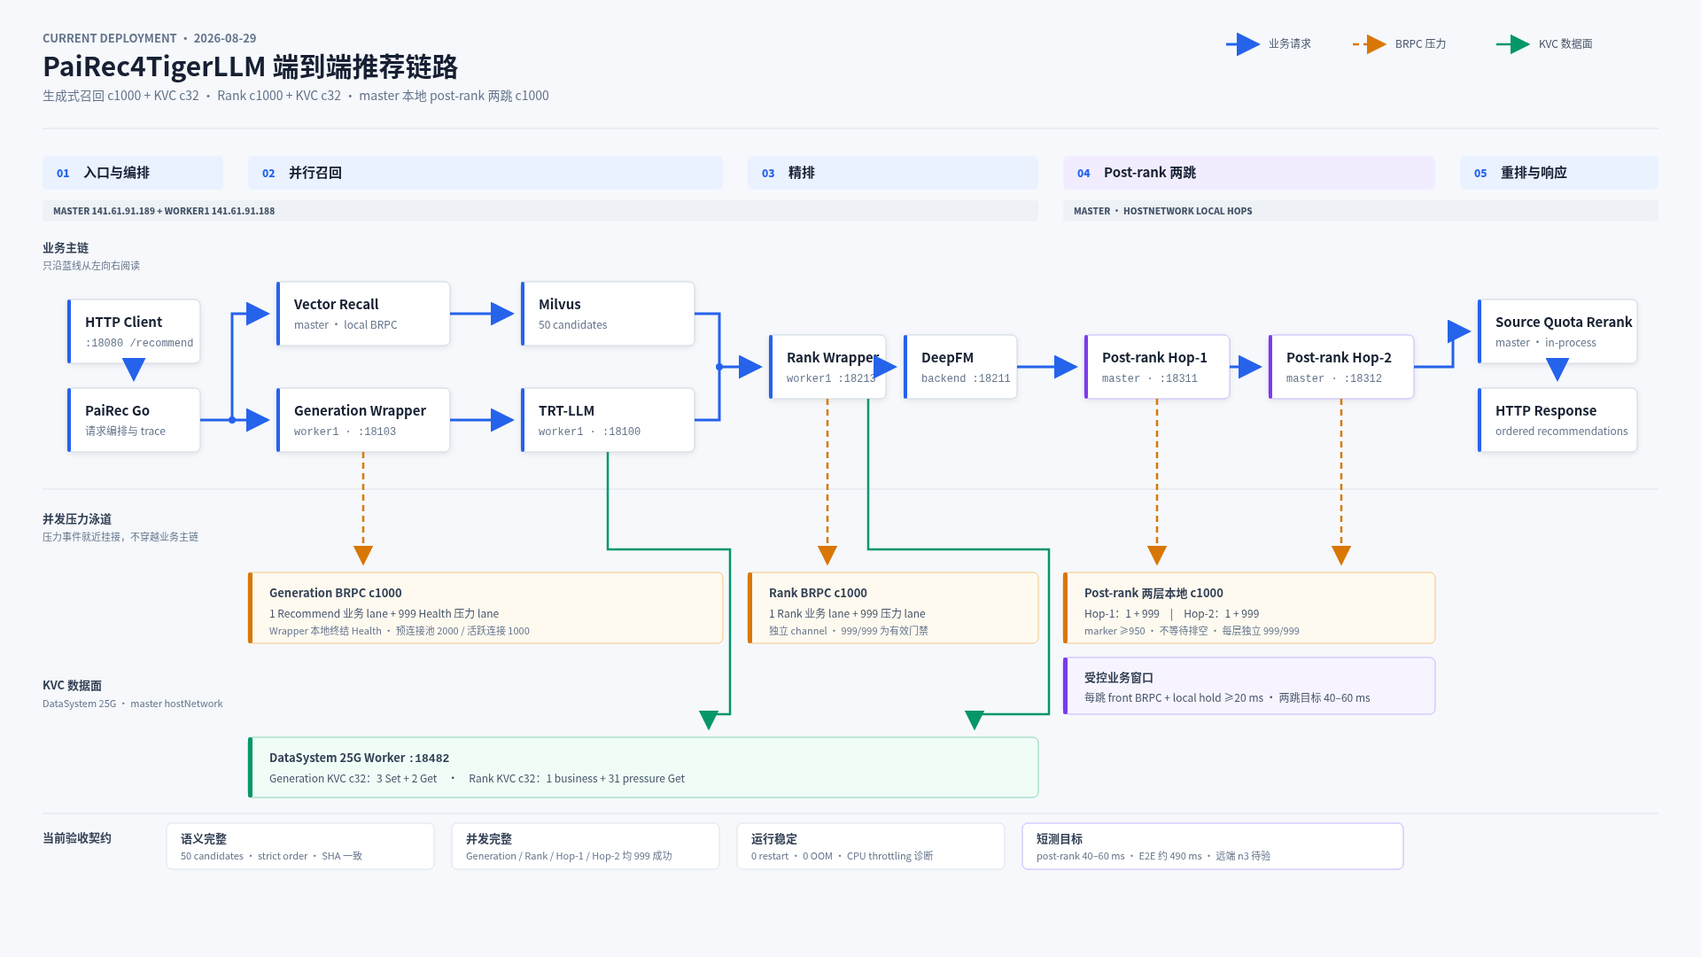
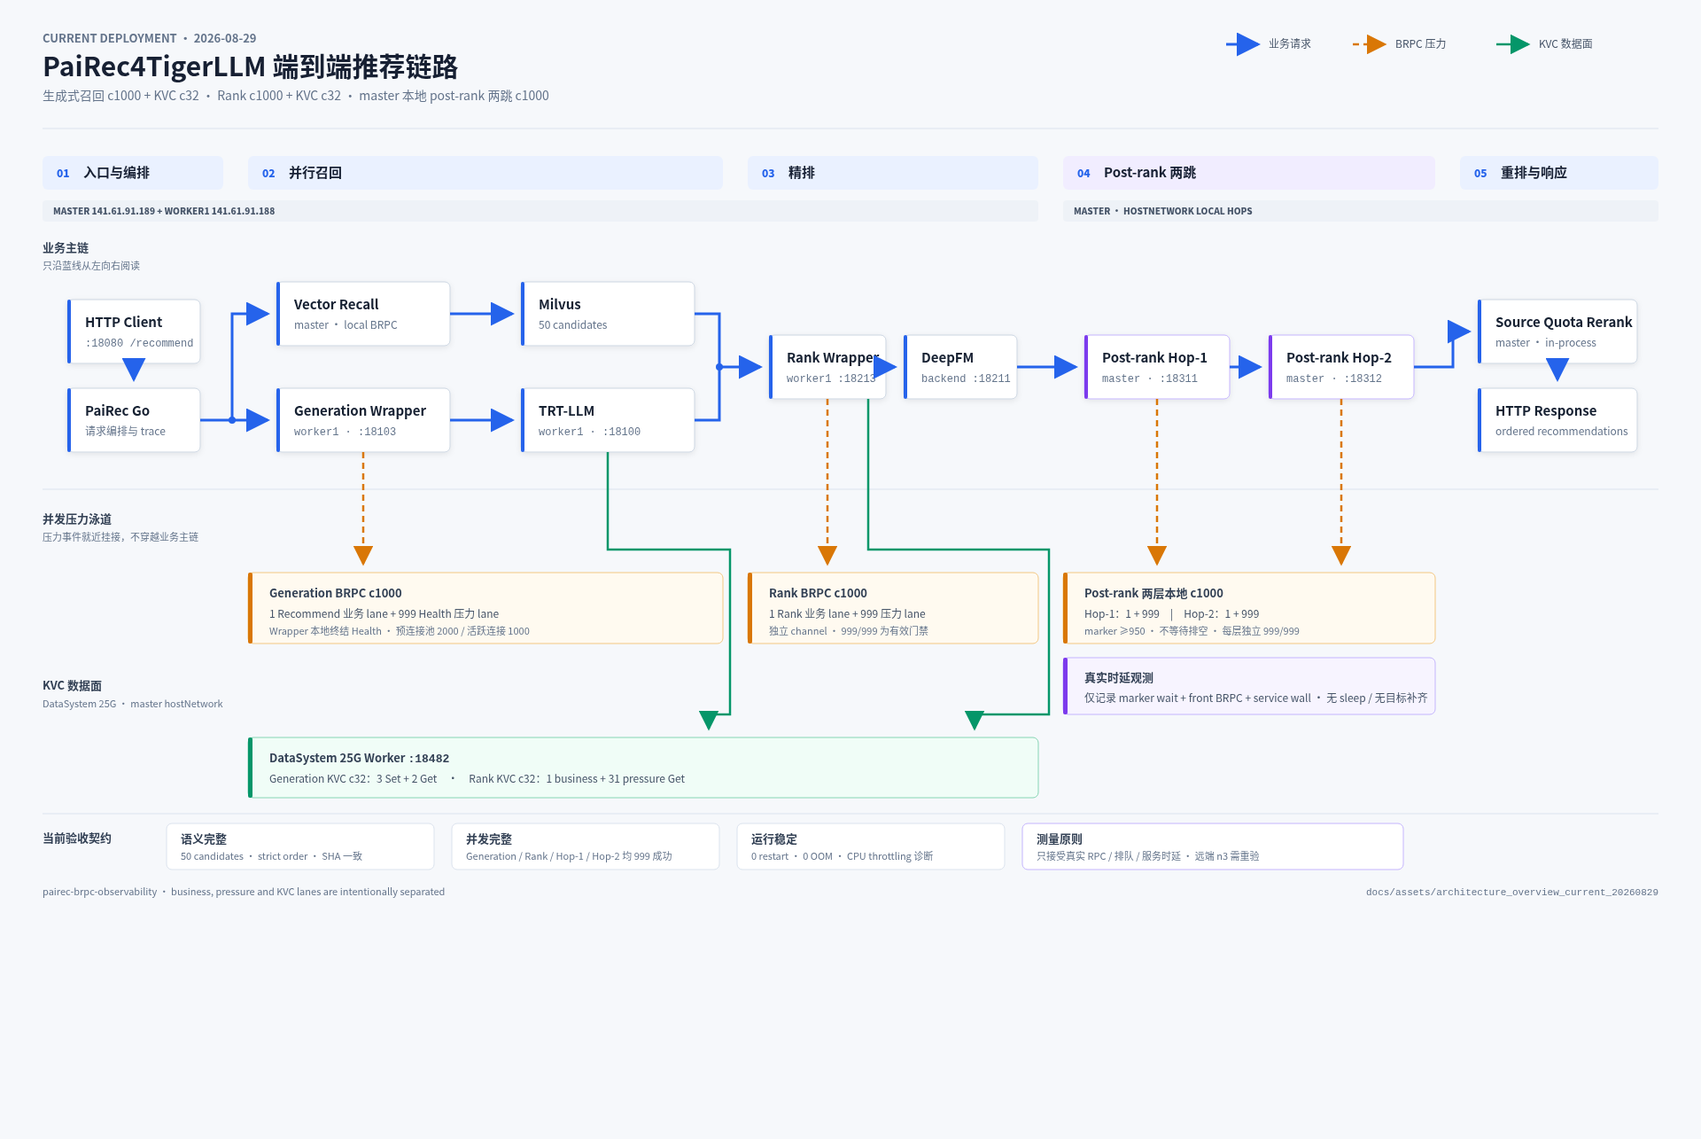
fix: remove synthetic post-rank latency padding

diff --git a/docs/assets/architecture_overview_current_20260829.html b/docs/assets/architecture_overview_current_20260829.html
@@ -147,7 +147,7 @@
     <text x="1224" y="674" class="lane-title">Post-rank 两层本地 c1000</text><text x="1224" y="697" class="lane-text">Hop-1：1 + 999　|　Hop-2：1 + 999</text><text x="1224" y="716" class="tiny">marker ≥950 · 不等待排空 · 每层独立 999/999</text></g>
 
   <g><rect x="1200" y="742" width="420" height="64" rx="6" fill="#f7f4ff" stroke="#c4b5fd"/><rect x="1200" y="742" width="5" height="64" rx="2" fill="#7c3aed"/>
-    <text x="1224" y="769" class="lane-title" fill="#5b21b6">受控业务窗口</text><text x="1224" y="792" class="lane-text">每跳 front BRPC + local hold ≥20 ms · 两跳目标 40–60 ms</text></g>
+    <text x="1224" y="769" class="lane-title" fill="#5b21b6">真实时延观测</text><text x="1224" y="792" class="lane-text">仅记录 marker wait + front BRPC + service wall · 无 sleep / 无目标补齐</text></g>
 
   <!-- KVC -->
   <text x="48" y="778" class="lane-title">KVC 数据面</text>
@@ -164,7 +164,7 @@
     <rect x="0" y="0" width="302" height="52" rx="6" fill="#fff" stroke="#dbe3ee"/><text x="16" y="22" class="lane-title">语义完整</text><text x="16" y="41" class="tiny">50 candidates · strict order · SHA 一致</text>
     <rect x="322" y="0" width="302" height="52" rx="6" fill="#fff" stroke="#dbe3ee"/><text x="338" y="22" class="lane-title">并发完整</text><text x="338" y="41" class="tiny">Generation / Rank / Hop-1 / Hop-2 均 999 成功</text>
     <rect x="644" y="0" width="302" height="52" rx="6" fill="#fff" stroke="#dbe3ee"/><text x="660" y="22" class="lane-title">运行稳定</text><text x="660" y="41" class="tiny">0 restart · 0 OOM · CPU throttling 诊断</text>
-    <rect x="966" y="0" width="430" height="52" rx="6" fill="#fff" stroke="#c4b5fd"/><text x="982" y="22" class="lane-title" fill="#5b21b6">短测目标</text><text x="982" y="41" class="tiny">post-rank 40–60 ms · E2E 约 490 ms · 远端 n3 待验</text>
+    <rect x="966" y="0" width="430" height="52" rx="6" fill="#fff" stroke="#c4b5fd"/><text x="982" y="22" class="lane-title" fill="#5b21b6">测量原则</text><text x="982" y="41" class="tiny">只接受真实 RPC / 排队 / 服务时延 · 远端 n3 需重验</text>
   </g>
   <text x="48" y="1010" class="tiny">pairec-brpc-observability · business, pressure and KVC lanes are intentionally separated</text>
   <text x="1872" y="1010" text-anchor="end" class="tiny mono">docs/assets/architecture_overview_current_20260829</text>

diff --git a/services/sort/brpc_rank_burst_coordinator.go b/services/sort/brpc_rank_burst_coordinator.go
@@ -25,7 +25,6 @@ type RankBurstConfig struct {
 	DedicatedBusinessLane bool
 	PressureStartQuorum   int
 	PressureStartTimeout  time.Duration
-	MinimumLocalWindow    time.Duration
 }
 
 type rankBurstSession interface {
@@ -53,7 +52,6 @@ type RankBurstCoordinator struct {
 	dedicatedBusinessLane bool
 	pressureStartQuorum   int
 	pressureStartTimeout  time.Duration
-	minimumLocalWindow    time.Duration
 	pressureDispatch      sync.Mutex
 	rounds                sync.WaitGroup
 }
@@ -84,10 +82,8 @@ type rankBurstLaneResult struct {
 	response                       *pipelinepb.RankResponse
 	err                            error
 	markerWaitUS                   int64
-	businessHoldUS                 int64
 	pressureStartedAtBusinessStart int64
 	pressureStartQuorum            int
-	minimumLocalWindowUS           int64
 }
 
 type rankBurstBusinessEvent struct {
@@ -107,9 +103,6 @@ type rankBurstBusinessEvent struct {
 	PressureStartQuorum            int     `json:"pressure_start_quorum"`
 	PressureStartedAtBusinessStart int64   `json:"pressure_started_at_business_start"`
 	MarkerWaitMS                   float64 `json:"marker_wait_ms"`
-	BusinessHoldMS                 float64 `json:"business_hold_ms"`
-	MinimumLocalWindowMS           float64 `json:"minimum_local_window_ms"`
-	LocalBusinessWindowMS          float64 `json:"local_business_window_ms"`
 }
 
 type rankBurstCompleteEvent struct {
@@ -197,9 +190,6 @@ func newRankBurstCoordinator(sessions []rankBurstSession, cfg RankBurstConfig, l
 			return nil, fmt.Errorf("rank pressure start timeout must be positive")
 		}
 	}
-	if cfg.MinimumLocalWindow < 0 || cfg.MinimumLocalWindow > cfg.BusinessTimeout {
-		return nil, fmt.Errorf("rank minimum local window must be in [0,business timeout]")
-	}
 	if logger == nil {
 		logger = writeRankBurstEvent
 	}
@@ -218,7 +208,6 @@ func newRankBurstCoordinator(sessions []rankBurstSession, cfg RankBurstConfig, l
 		dedicatedBusinessLane: cfg.DedicatedBusinessLane,
 		pressureStartQuorum:   cfg.PressureStartQuorum,
 		pressureStartTimeout:  cfg.PressureStartTimeout,
-		minimumLocalWindow:    cfg.MinimumLocalWindow,
 	}
 	c.workers = make([]chan rankBurstJob, cfg.PoolSize)
 	for index := range sessions {
@@ -335,23 +324,8 @@ func (c *RankBurstCoordinator) Rank(request *pipelinepb.RankRequest, requestID s
 	business.markerWaitUS = markerWait.Microseconds()
 	business.pressureStartedAtBusinessStart = pressureStartedAtBusinessStart
 	business.pressureStartQuorum = c.pressureStartQuorum
-	business.minimumLocalWindowUS = c.minimumLocalWindow.Microseconds()
 	if markerErr != nil {
 		business.err = markerErr
-	}
-	if business.err == nil && business.response != nil && c.minimumLocalWindow > 0 {
-		serviceUS := int64(0)
-		if business.response.Trace != nil {
-			serviceUS = pipelinepb.Int64(business.response.Trace.TotalUS)
-		}
-		localFront := time.Duration(maxInt64(0, business.latencyUS-serviceUS)) * time.Microsecond
-		if hold := c.minimumLocalWindow - localFront; hold > 0 {
-			holdStarted := time.Now()
-			time.Sleep(hold)
-			business.businessHoldUS = time.Since(holdStarted).Microseconds()
-			business.endEpochNS = time.Now().UnixNano()
-			business.latencyUS = (business.endEpochNS - business.startEpochNS) / 1000
-		}
 	}
 	businessEvent := makeRankBurstBusinessEvent(
 		c.eventPrefix, c.traceComponent, requestID, c.concurrency,
@@ -478,8 +452,6 @@ func makeRankBurstBusinessEvent(eventPrefix, traceComponent, requestID string,
 		PressureStartQuorum:            result.pressureStartQuorum,
 		PressureStartedAtBusinessStart: result.pressureStartedAtBusinessStart,
 		MarkerWaitMS:                   float64(result.markerWaitUS) / 1000,
-		BusinessHoldMS:                 float64(result.businessHoldUS) / 1000,
-		MinimumLocalWindowMS:           float64(result.minimumLocalWindowUS) / 1000,
 	}
 	if result.err != nil {
 		event.Error = result.err.Error()
@@ -488,22 +460,14 @@ func makeRankBurstBusinessEvent(eventPrefix, traceComponent, requestID string,
 		return event
 	}
 	event.ServiceTotalMS = float64(pipelinepb.Int64(result.response.Trace.TotalUS)) / 1000
-	event.FrontBRPCEstimateMS = event.ClientWallMS - event.ServiceTotalMS - event.BusinessHoldMS
+	event.FrontBRPCEstimateMS = event.ClientWallMS - event.ServiceTotalMS
 	if event.FrontBRPCEstimateMS < 0 {
 		event.FrontBRPCEstimateMS = 0
 	}
-	event.LocalBusinessWindowMS = event.FrontBRPCEstimateMS + event.BusinessHoldMS
 	event.TraceValid = pipelinepb.Int32(result.response.Code) == 200 &&
 		pipelinepb.String(result.response.Trace.Component) == traceComponent &&
 		pipelinepb.Int64(result.response.Trace.TotalUS) > 0
 	return event
-}
-
-func maxInt64(left, right int64) int64 {
-	if left > right {
-		return left
-	}
-	return right
 }
 
 func makeRankBurstCompleteEvent(eventPrefix, requestID string,

diff --git a/cpp/brpc_gateway/post_rank_hop_burst.cpp b/cpp/brpc_gateway/post_rank_hop_burst.cpp
@@ -77,7 +77,6 @@ class BurstCoordinator::Impl {
     pairec::pipeline::RankResponse business_response;
     std::string business_error;
     double marker_wait_ms = 0;
-    double business_hold_ms = 0;
     std::vector<int64_t> pressure_us;
   };
 
@@ -100,10 +99,8 @@ class BurstCoordinator::Impl {
         config.startup_batch_size > config.concurrency ||
         config.pressure_start_quorum < 1 ||
         config.pressure_start_quorum >= config.concurrency ||
-        config.pressure_start_timeout_ms < 1 ||
-        config.minimum_local_window_ms < 1 ||
-        config.minimum_local_window_ms > 100) {
-      *error = "post-rank hop requires c1000, payload=102400, marker quorum, and a 1..100ms local window";
+        config.pressure_start_timeout_ms < 1) {
+      *error = "post-rank hop requires c1000, payload=102400, and a pressure marker quorum";
       return false;
     }
     config_ = config;
@@ -149,7 +146,6 @@ class BurstCoordinator::Impl {
               << ",\"armed_workers\":" << config.concurrency
               << ",\"pressure_start_quorum\":" << config.pressure_start_quorum
               << ",\"pressure_start_timeout_ms\":" << config.pressure_start_timeout_ms
-              << ",\"minimum_local_window_ms\":" << config.minimum_local_window_ms
               << ",\"payload_bytes\":" << config.payload_bytes << "}" << std::endl;
     return true;
   }
@@ -226,22 +222,12 @@ class BurstCoordinator::Impl {
     }
     const double raw_wall_ms = static_cast<double>(rpc_ended_ns - business_started_ns) / 1e6;
     const double front_brpc_ms = std::max(0.0, raw_wall_ms - service_ms);
-    const double requested_hold_ms = marker_success
-        ? std::max(0.0, static_cast<double>(config_.minimum_local_window_ms) - front_brpc_ms)
-        : 0;
-    if (requested_hold_ms > 0) {
-      const int64_t hold_started_us = SteadyMicros();
-      std::this_thread::sleep_for(std::chrono::microseconds(
-          static_cast<int64_t>(requested_hold_ms * 1000)));
-      result->business_hold_ms = static_cast<double>(SteadyMicros() - hold_started_us) / 1000;
-    }
-    const int64_t business_ended_ns = SystemNanos();
+    const int64_t business_ended_ns = rpc_ended_ns;
     bool finish = false;
     {
       std::lock_guard<std::mutex> lock(round->mutex);
       round->business_end_ns = business_ended_ns;
       round->business_response = business_response;
-      round->business_hold_ms = result->business_hold_ms;
       round->business_success = marker_success && !controller.Failed() && business_response.code() == 200;
       if (!marker_success) {
         round->business_error = "pressure start marker timed out: started=" +
@@ -258,7 +244,6 @@ class BurstCoordinator::Impl {
       result->business_wall_ms = static_cast<double>(business_ended_ns - business_started_ns) / 1e6;
       result->service_ms = service_ms;
       result->front_brpc_ms = front_brpc_ms;
-      result->local_business_window_ms = front_brpc_ms + result->business_hold_ms;
       result->error = round->business_error;
       *response = round->business_response;
     }
@@ -274,9 +259,6 @@ class BurstCoordinator::Impl {
               << ",\"pressure_started_at_business_start\":"
               << result->pressure_started_at_business_start
               << ",\"marker_wait_ms\":" << result->marker_wait_ms
-              << ",\"business_hold_ms\":" << result->business_hold_ms
-              << ",\"minimum_local_window_ms\":" << config_.minimum_local_window_ms
-              << ",\"local_business_window_ms\":" << result->local_business_window_ms
               << "}" << std::endl;
     return result->success;
   }

diff --git a/tests/test_rank_brpc_burst_summary.py b/tests/test_rank_brpc_burst_summary.py
@@ -226,7 +226,7 @@ class RankBRPCBurstSummaryTest(unittest.TestCase):
         self.assertIn("pairec_post_rank_binary_identity", script)
         self.assertNotIn("rollout restart deployment/post-rank-hop", script)
 
-    def test_post_rank_business_lanes_wait_for_marker_not_pressure_drain(self):
+    def test_post_rank_business_lanes_measure_real_latency_without_padding(self):
         outer = (ROOT / "services" / "sort" / "deepfm_rank_sort.go").read_text()
         coordinator = (
             ROOT / "services" / "sort" / "brpc_rank_burst_coordinator.go"
@@ -234,15 +234,18 @@ class RankBRPCBurstSummaryTest(unittest.TestCase):
         inner = (ROOT / "cpp" / "brpc_gateway" / "post_rank_hop_burst.cpp").read_text()
         self.assertIn("DedicatedBusinessLane: true", outer)
         self.assertIn("PressureStartQuorum:", outer)
-        self.assertIn("MinimumLocalWindow:", outer)
         self.assertIn("businessLane = 1", coordinator)
         self.assertIn("pressure start marker timed out", coordinator)
-        self.assertIn("LocalBusinessWindowMS", coordinator)
         self.assertIn("c.slot <- struct{}{}", coordinator)
         self.assertIn("std::deque<std::shared_ptr<Round>> rounds", inner)
         self.assertIn("business_mutex_", inner)
         self.assertIn("pressure_started_cv.wait_for", inner)
-        self.assertIn("minimum_local_window_ms", inner)
+        self.assertNotIn("MinimumLocalWindow", outer)
+        self.assertNotIn("time.Sleep(hold)", coordinator)
+        self.assertNotIn("business_hold_ms", coordinator)
+        self.assertNotIn("minimum_local_window_ms", inner)
+        self.assertNotIn("requested_hold_ms", inner)
+        self.assertNotIn("sleep_for(std::chrono::microseconds", inner)
         self.assertNotIn("round->ready == config_.concurrency - 1", inner)
         self.assertNotIn("previous post-rank hop2 burst is still active", inner)
 
@@ -257,8 +260,10 @@ class RankBRPCBurstSummaryTest(unittest.TestCase):
         self.assertIn('MAX_POST_RANK_MS="${MAX_POST_RANK_MS:-120}"', benchmark)
         self.assertIn('MEASURED_REQUESTS="${MEASURED_REQUESTS:-3}"', benchmark)
         self.assertIn('"PAIREC_POST_RANK_TWO_HOP_B_N3_OK"', benchmark)
-        self.assertIn('post_rank_hop1_local_business_window_ms', benchmark)
-        self.assertIn('post_rank_hop2_local_business_window_ms', benchmark)
+        self.assertIn('post_rank_hop1_front_brpc_ms', benchmark)
+        self.assertIn('post_rank_hop2_front_brpc_ms', benchmark)
+        self.assertNotIn('local_business_window_ms', benchmark)
+        self.assertNotIn('business_hold_ms', benchmark)
         self.assertIn('outer_complete["burst_valid"] is True', benchmark)
         self.assertIn("cpu_throttling=diagnostic", validator)
         self.assertNotIn('after["nr_throttled"]-before["nr_throttled"]==0', validator)

diff --git a/services/sort/brpc_rank_burst_coordinator_test.go b/services/sort/brpc_rank_burst_coordinator_test.go
@@ -89,7 +89,7 @@ func TestRankBurstCoordinatorDedicatedLaneDoesNotWaitForPreviousPressureTail(t *
 	}
 }
 
-func TestRankBurstCoordinatorWaitsForPressureMarkerAndAddsLocalWindow(t *testing.T) {
+func TestRankBurstCoordinatorWaitsForPressureMarkerWithoutSyntheticDelay(t *testing.T) {
 	const concurrency = 4
 	sessions := make([]rankBurstSession, concurrency)
 	for index := range sessions {
@@ -107,7 +107,6 @@ func TestRankBurstCoordinatorWaitsForPressureMarkerAndAddsLocalWindow(t *testing
 			BusinessTimeout: time.Second, PressureTimeout: time.Second,
 			DedicatedBusinessLane: true, PressureStartQuorum: concurrency - 1,
 			PressureStartTimeout: 100 * time.Millisecond,
-			MinimumLocalWindow:   20 * time.Millisecond,
 		},
 		func(event any) { events <- event },
 	)
@@ -119,16 +118,16 @@ func TestRankBurstCoordinatorWaitsForPressureMarkerAndAddsLocalWindow(t *testing
 	if _, err := coordinator.Rank(testRankBurstRequest(), "marker-window"); err != nil {
 		t.Fatal(err)
 	}
-	if elapsed := time.Since(started); elapsed < 19*time.Millisecond || elapsed >= 60*time.Millisecond {
-		t.Fatalf("unexpected marker/window business latency: %s", elapsed)
+	if elapsed := time.Since(started); elapsed >= 50*time.Millisecond {
+		t.Fatalf("business request included synthetic delay or pressure tail: %s", elapsed)
 	}
 	business := waitRankBurstBusiness(t, events)
 	if business.PressureStartQuorum != concurrency-1 ||
 		business.PressureStartedAtBusinessStart < concurrency-1 {
 		t.Fatalf("business did not wait for pressure marker: %#v", business)
 	}
-	if business.LocalBusinessWindowMS < 19.5 || business.BusinessHoldMS < 10 {
-		t.Fatalf("local business window was not enforced: %#v", business)
+	if business.FrontBRPCEstimateMS <= 0 {
+		t.Fatalf("real front BRPC latency was not observed: %#v", business)
 	}
 	complete := waitRankBurstComplete(t, events)
 	if !complete.BurstValid || complete.PressureSuccess != concurrency-1 {
@@ -193,6 +192,7 @@ func TestRankBurstCoordinatorReturnsBusinessBeforePressureTail(t *testing.T) {
 			Concurrency: concurrency, PoolSize: concurrency,
 			BusinessBytes: 102400, PressureBytes: 102400,
 			BusinessTimeout: time.Second, PressureTimeout: time.Second,
+			DedicatedBusinessLane: true,
 		},
 		func(event any) { events <- event },
 	)
@@ -209,7 +209,7 @@ func TestRankBurstCoordinatorReturnsBusinessBeforePressureTail(t *testing.T) {
 	}
 	complete := waitRankBurstComplete(t, events)
 	if !complete.BurstValid || complete.PressureRequests != concurrency-1 ||
-		complete.PressureSuccess != concurrency-1 || complete.PressureOverlapBusiness <= 0 {
+		complete.PressureSuccess != concurrency-1 {
 		t.Fatalf("unexpected pressure completion: %#v", complete)
 	}
 	if complete.PressureTailAfterBusinessMS < 50 {

diff --git a/services/sort/deepfm_rank_sort.go b/services/sort/deepfm_rank_sort.go
@@ -56,7 +56,6 @@ type Config struct {
 	PostRankPressureTimeoutMS      int    `json:"post_rank_pressure_timeout_ms"`
 	PostRankPressureStartQuorum    int    `json:"post_rank_pressure_start_quorum"`
 	PostRankPressureStartTimeoutMS int    `json:"post_rank_pressure_start_timeout_ms"`
-	PostRankMinimumLocalWindowMS   int    `json:"post_rank_minimum_local_window_ms"`
 }
 
 type userDefineConfig struct {
@@ -193,9 +192,6 @@ func NewDeepFMRankSort(config Config) (*DeepFMRankSort, error) {
 		if config.PostRankPressureStartTimeoutMS < 1 || config.PostRankPressureStartTimeoutMS > 1000 {
 			return nil, errors.New("post-rank pressure start timeout must be in [1,1000] ms")
 		}
-		if config.PostRankMinimumLocalWindowMS < 1 || config.PostRankMinimumLocalWindowMS > 100 {
-			return nil, errors.New("post-rank minimum local window must be in [1,100] ms")
-		}
 	}
 	transport := &http.Transport{
 		Proxy: nil,
@@ -261,7 +257,6 @@ func NewDeepFMRankSort(config Config) (*DeepFMRankSort, error) {
 				DedicatedBusinessLane: true,
 				PressureStartQuorum:   config.PostRankPressureStartQuorum,
 				PressureStartTimeout:  time.Duration(config.PostRankPressureStartTimeoutMS) * time.Millisecond,
-				MinimumLocalWindow:    time.Duration(config.PostRankMinimumLocalWindowMS) * time.Millisecond,
 			})
 			if err != nil {
 				return nil, fmt.Errorf("initialize post-rank hop1 burst: %w", err)

diff --git a/cpp/brpc_gateway/brpc_post_rank_hop.cpp b/cpp/brpc_gateway/brpc_post_rank_hop.cpp
@@ -50,7 +50,6 @@ bool Parse(int argc, char** argv, Config* config) {
     else if (Value(argv[i], "pressure_timeout_ms", &value)) config->burst.pressure_timeout_ms = std::atoi(value.c_str());
     else if (Value(argv[i], "pressure_start_quorum", &value)) config->burst.pressure_start_quorum = std::atoi(value.c_str());
     else if (Value(argv[i], "pressure_start_timeout_ms", &value)) config->burst.pressure_start_timeout_ms = std::atoi(value.c_str());
-    else if (Value(argv[i], "minimum_local_window_ms", &value)) config->burst.minimum_local_window_ms = std::atoi(value.c_str());
     else if (Value(argv[i], "startup_timeout_ms", &value)) config->burst.startup_timeout_ms = std::atoi(value.c_str());
     else if (Value(argv[i], "startup_batch_size", &value)) config->burst.startup_batch_size = std::atoi(value.c_str());
     else if (Value(argv[i], "startup_max_retries", &value)) config->burst.startup_max_retries = std::atoi(value.c_str());

diff --git a/cpp/brpc_gateway/post_rank_hop_burst.h b/cpp/brpc_gateway/post_rank_hop_burst.h
@@ -16,7 +16,6 @@ struct BurstConfig {
   int pressure_timeout_ms = 5000;
   int pressure_start_quorum = 950;
   int pressure_start_timeout_ms = 250;
-  int minimum_local_window_ms = 20;
   int startup_timeout_ms = 120000;
   int startup_batch_size = 64;
   int startup_max_retries = 3;
@@ -29,8 +28,6 @@ struct BurstResult {
   double service_ms = 0;
   double front_brpc_ms = 0;
   double marker_wait_ms = 0;
-  double business_hold_ms = 0;
-  double local_business_window_ms = 0;
   int pressure_started_at_business_start = 0;
   std::string error;
 };

diff --git a/progress.md b/progress.md
@@ -1,3 +1,5 @@
+> 2026-08-29 post-rank两跳人工补时已彻底删除、待master重建短n3：按用户“不能有虚假实现”的要求，Go Hop-1删除`time.Sleep(hold)`，C++ Hop-2删除`std::this_thread::sleep_for`补齐逻辑，并移除`minimum_local_window/business_hold/local_business_window`全部配置、事件字段、汇总指标和>=19.5ms门禁。保留真实c1000、100KiB、950-start marker、独立业务lane、999+999成功及异步压力尾部；后续性能结论只使用真实RPC、排队、服务和传输耗时。此前n3的`post_rank_two_hop_ms=55.153`包含Hop-1 `20.165ms`与Hop-2 `10.973ms`人工hold，共`31.138ms`，不能作为真实两跳时延证据，必须重测。验证证据：`go test -race -count=10 -mod=vendor ./services/sort`、`go test -mod=vendor ./services/...`、Python 174项（skip1）、四个Shell脚本`bash -n`和`git diff --check`均通过；生产路径补时残留扫描零匹配，架构图已改为真实时延观测。
+
 > 2026-08-29 post-rank两跳20ms本地缓冲实现完成、待master短n3：连续三次既有实测中两跳仅贡献`6.941/13.328/14.079ms`，且E2E `425.027/488.729ms`的变化主要来自生成式与Rank，确认c1000成功不等于业务lane必然获得20ms时延。决策为每跳先等待`950/999`压力请求进入执行（250ms fail-closed marker timeout），但不等待999路排空；随后按`真实front BRPC + 受控hold >= 20ms`补足本跳本地窗口。窗口按本跳front而非嵌套总wall计算，确保Hop-1和Hop-2顺序各贡献约20ms，而不是Hop-1把Hop-2窗口吞并。新增`pressure_started_at_business_start/marker_wait_ms/business_hold_ms/minimum_local_window_ms/local_business_window_ms`事件字段；Go外层与C++内层均保留独立业务channel及异步压力尾部。专项脚本改为1次排除预热+3次正式请求，逐轮硬校验两跳marker>=950、本地窗口>=19.5ms、999+999、业务重叠、E2E<=550ms和post-rank<=120ms。本地证据：`go test -race -mod=vendor ./services/sort`通过，`go test -mod=vendor ./services/...`通过，Python 174项通过（skip1），Shell语法及`git diff --check`通过；本机无ARM64 bRPC镜像，下一步master重建Hop/PaiRec后运行短n3，目标post-rank约40~60ms并观察E2E是否落在目标附近。
 
 > 2026-08-29 当前端到端架构图重绘：基于`docs/assets/architecture_overview_20260818`新增独立的`architecture_overview_current_20260829.html/png`，未覆盖既有图。新图按master/worker1物理边界展示HTTP入口、向量/生成式并行召回、生成式BRPC c1000与KVC c32、Rank BRPC c1000与Rank KVC c32、master本地post-rank Hop-1/Hop-2两层c1000、来源配额重排和DataSystem 25G数据面；明确三组业务lane/压力lane、Health本地终结、post-rank固定业务session与不等待999压力尾部，并标注最近一次有效n1实测E2E/生成式/Rank/post-rank=`425.027/284.351/118.874/13.328ms`、两跳999/999和CPU throttling 0。PNG由HTML在1920×1285 viewport下用headless Chrome渲染并完成原始分辨率目视检查。
